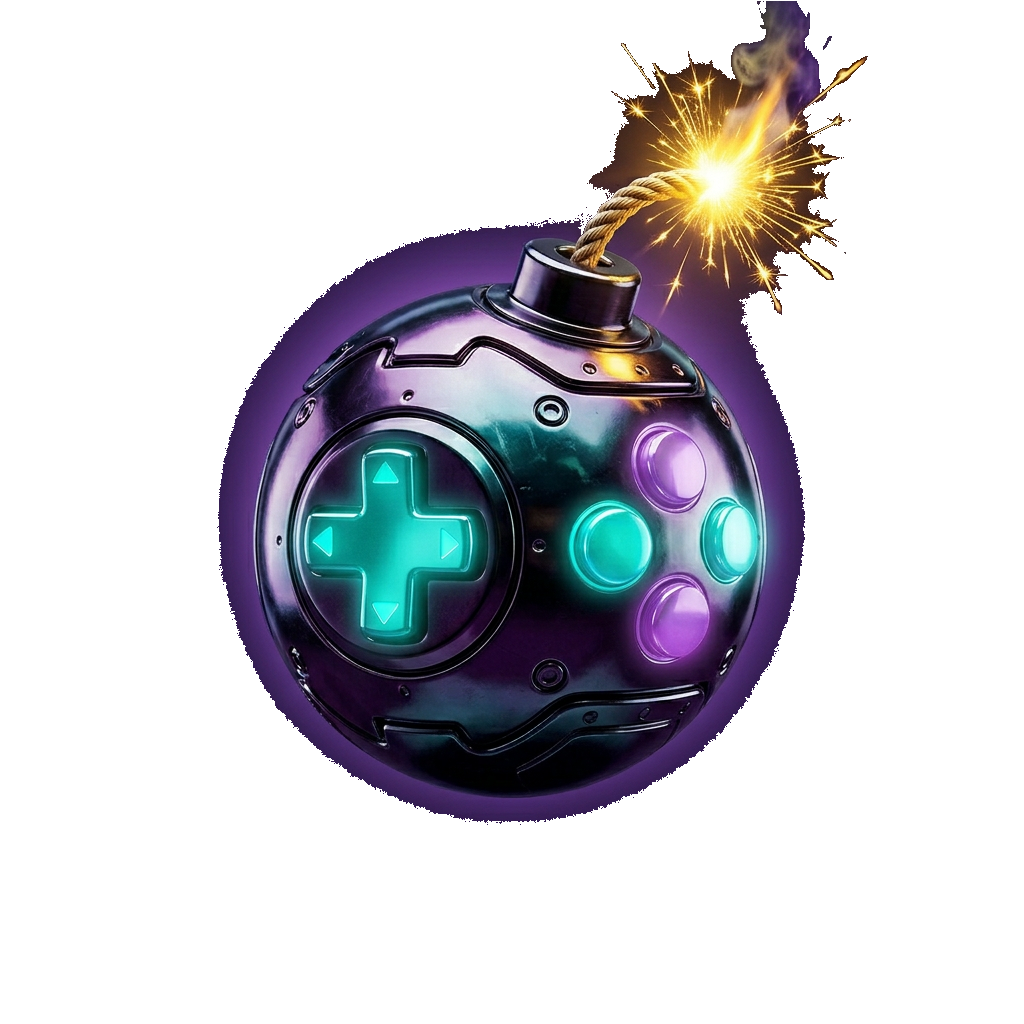
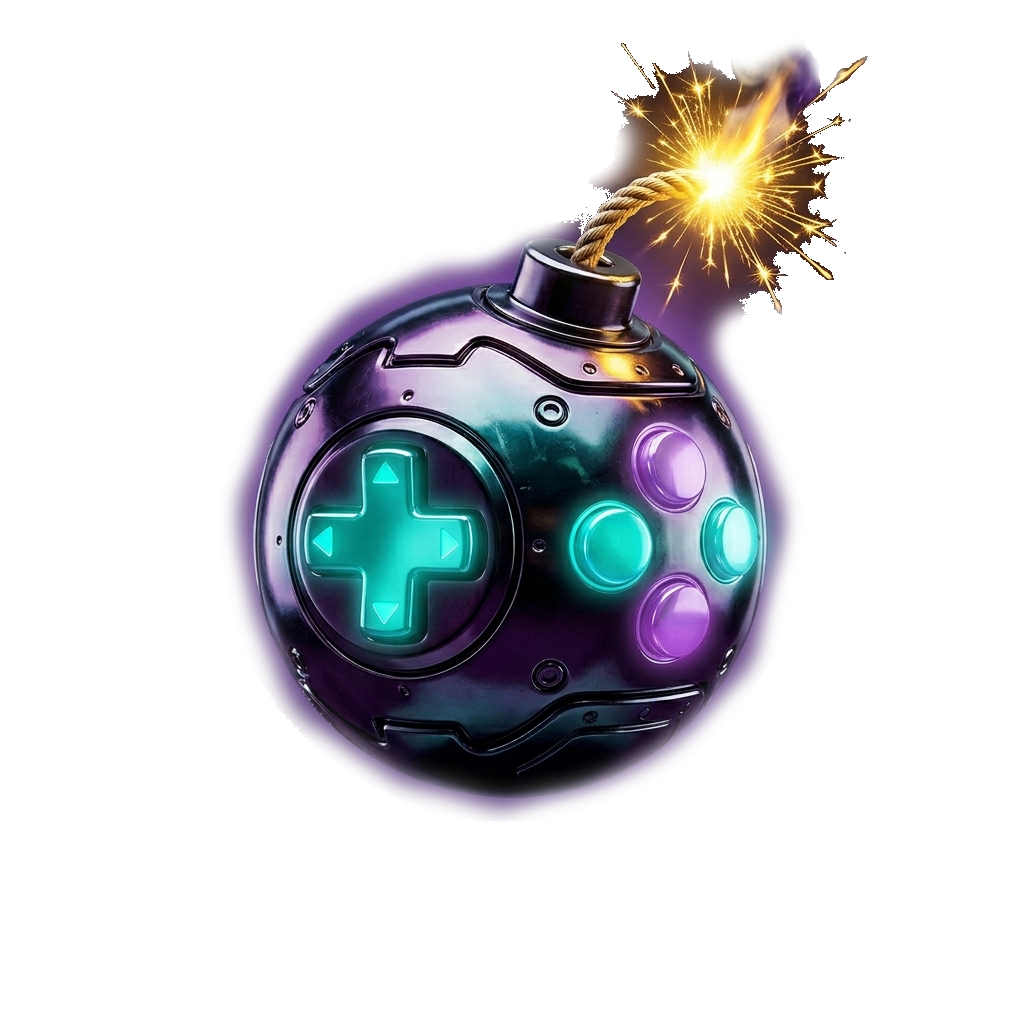
feat: v0.2.0 release workflow + README screenshots at bottom
- CI now creates GitHub releases with built binaries on tag push
- Screenshots moved to bottom of README, OG banner stays at top
- Bumped version to 0.2.0 across package.json, Cargo.toml, tauri.conf.json
- Updated icon-hero.png

Changed region(s): [[0.1875, 0.2188, 0.8125, 0.8125], [0.6562, 0.0, 0.8438, 0.0938], [0.5625, 0.0938, 0.6562, 0.1875]]

diff --git a/README.md b/README.md
@@ -6,12 +6,6 @@ An unofficial web-based controller for [BombSquad](https://www.froemling.net/app
 
 Website: [squadpad.org](https://squadpad.org)
 
-![Connect screen](docs/screenshots/screenshot1.png)
-
-![Host dashboard](docs/screenshots/screenshot2.png)
-
-![SquadPad running alongside BombSquad](docs/screenshots/screenshot3.jpeg)
-
 
 ## For Players
 
@@ -242,6 +236,15 @@ See [docs/PROTOCOL.md](docs/PROTOCOL.md) for the full protocol reference coverin
 SquadPad uses [Umami](https://umami.is), a privacy-focused, open-source analytics tool. Umami does not use cookies, does not track users across sites, and does not collect personal information. Analytics are self-hosted. See the [Privacy Policy](https://squadpad.org/privacy.html) for details.
 
 The cloud relay temporarily holds connection data (room code, player name, IP for rate limiting) while you play and deletes everything on disconnect. No gameplay data is logged or stored.
+
+
+## Screenshots
+
+![Connect screen](docs/screenshots/screenshot1.png)
+
+![Host dashboard](docs/screenshots/screenshot2.png)
+
+![SquadPad running alongside BombSquad](docs/screenshots/screenshot3.jpeg)
 
 
 ## Credits
